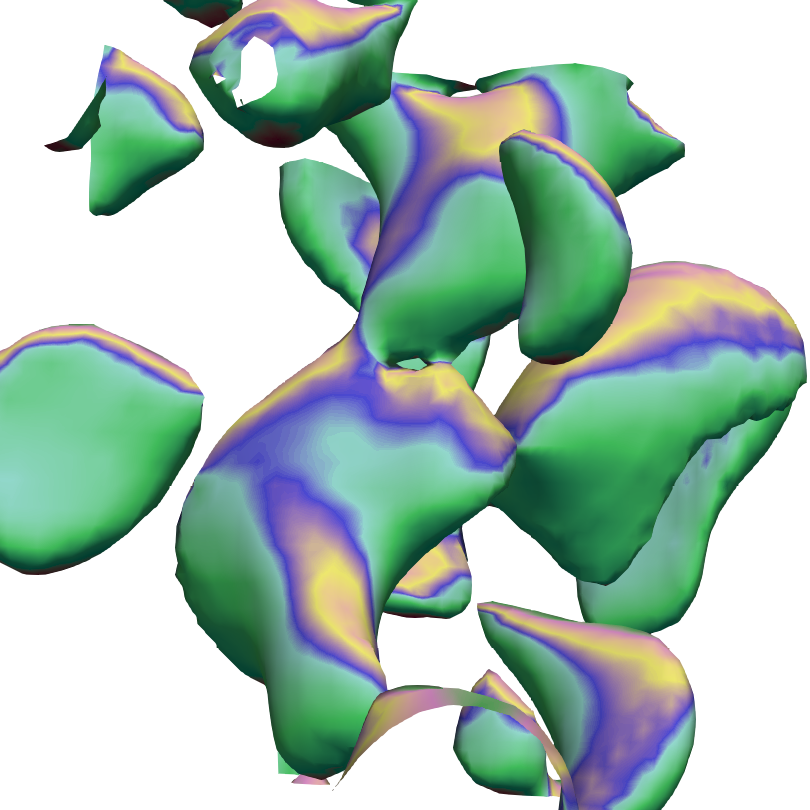
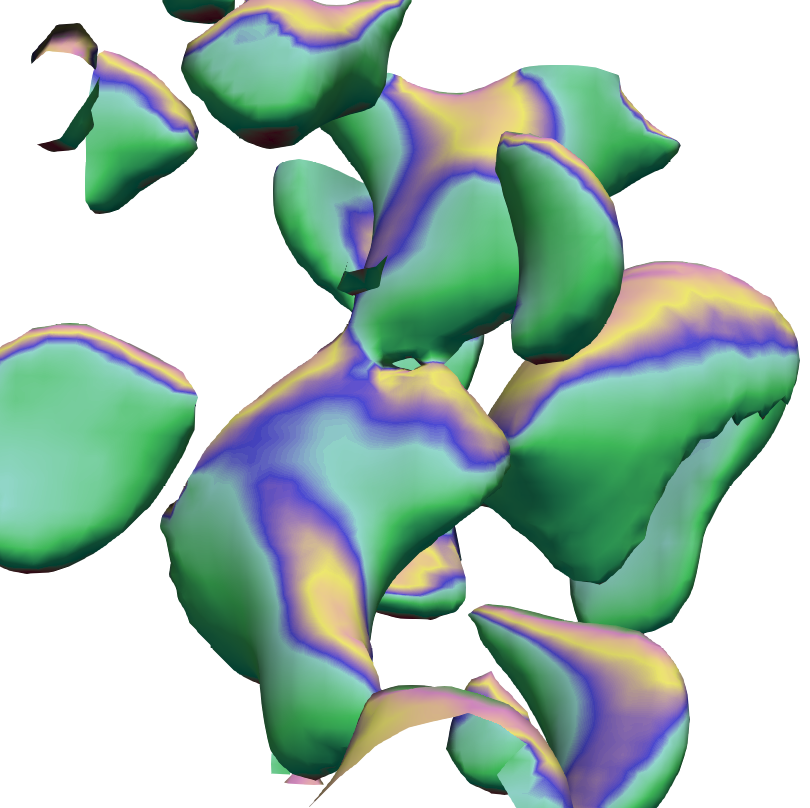
Updated isocontour renderings

diff --git a/histogram.tex b/histogram.tex
@@ -24,9 +24,9 @@ without hiding important trends. In all cases, \slvl performs significantly wors
 {\includegraphics[width=0.16\linewidth]{isocontour/isocontour-magnitude}}
 \subcaptionbox{\emph{by signature} ($s_{iso-sig}$)}
 {\includegraphics[width=0.16\linewidth]{isocontour/isocontour-signature}}
-\subcaptionbox{\emph{ground truth}}
+\subcaptionbox{\emph{reference}}
 {\includegraphics[width=0.16\linewidth]{isocontour/isocontour-groundtruth}}
-\caption{Rendering of isosurfaces at isovalue of 0.2, at 0.7 bps, for the \emph{pressure} data set.
+\caption{Rendering of isosurfaces at isovalue of 0.2, at 0.6 bps, for the \emph{pressure} data set.
 The surfaces are colored by the $x$-component of the normal vector at each point. \swav and
 \sisg produce surfaces that are closest to the reference, followed by \sbit, \smag, and \slvl.}
 \label{fig:isocontour-surfaces-pressure}

diff --git a/isocontour.tex b/isocontour.tex
@@ -77,7 +77,7 @@ the whole volume.
 For a typical isosurface that is relatively smooth and is not confined to small regions, such as
 \emph{pressure} with an isovalue of 0.2, \swav typically outperforms \sbit
 (see~\Cref{fig:isocontour-surfaces-pressure}). This figure renders the isosurfaces reconstructed at
-0.7 bps for all streams. In terms of the quality of the reconstructed surfaces, $\sisg \approx \swav
+0.6 bps for all streams. In terms of the quality of the reconstructed surfaces, $\sisg \approx \swav
 > \sbit > \smag > \slvl$, which agrees with the curves in~\Cref{fig:isocontour-plots}. For
 isosurface extraction, \swav seems to be the only stream --- among the data-independent ones ---
 that consistently works well in all cases.
